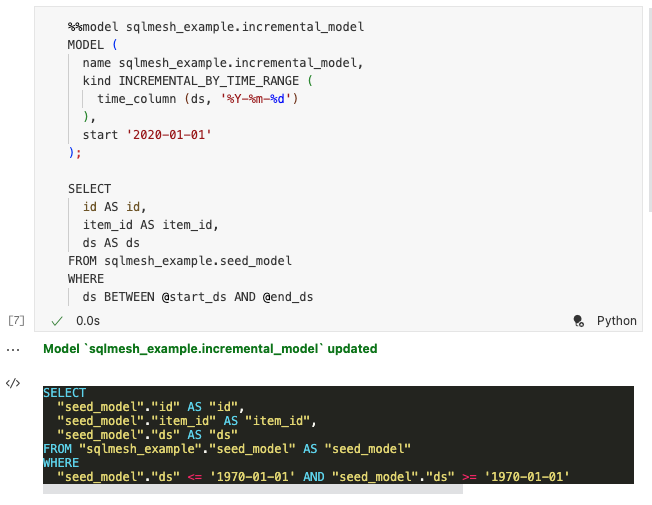
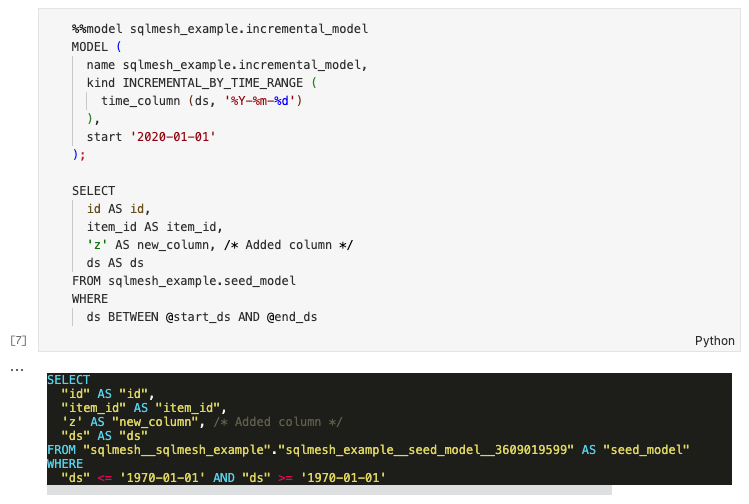
Fix notebook image

diff --git a/docs/quickstart/notebook.md b/docs/quickstart/notebook.md
@@ -81,7 +81,7 @@ We can modify the incremental SQL model using the `%model` *line* notebook magic
 
 ![%model line magic for sqlmesh_example.incremental_model](./notebook/nb-quickstart_model-line.png)
 
-After we execute the cell, the contents will be replaced by the `%%model` *cell* notebook magic (note the double `%%`) and the model contents, along with a rendered version of the model SQL query. SQLMesh has automatically added explicit column aliases (e.g., `id AS id`):
+After we execute the cell, the contents will be replaced by the `%%model` *cell* notebook magic (note the double `%%`) and the model contents, along with a rendered version of the model SQL query. SQLMesh has automatically added explicit column aliases to the query (e.g., `id AS id`):
 
 ![%%model cell magic for sqlmesh_example.incremental_model](./notebook/nb-quickstart_model-cell.png)
 
@@ -100,9 +100,11 @@ The second block "Summary of differences against `dev`" summarizes the differenc
 
 The third block shows the modifications we made to the rendered query.
 
-The next block shows that SQLMesh understood that the change was additive (added a column not used by `full_model`) and was automatically classified as a non-breaking change.
+The next block shows that we directly modified the incremental model. SQLMesh understood that the change was additive (added a column not used by `full_model`) and automatically classified it as a non-breaking change.
 
-The final block describes the models requiring backfill, including the full model since the date `dev` was created from `prod` and the incremental model from our start date `2020-01-01`. We can modify the backfill start and end dates for the incremental model with the date picker widget if desired. Click the green `Apply - Backfill Tables` button to apply the plan and execute the backfill:
+The final block describes the models requiring backfill, including the full model since the date `dev` was created from `prod` and the incremental model from our start date `2020-01-01`. We can modify the backfill start and end dates for the incremental model with the date picker widget, if desired. 
+
+Click the green `Apply - Backfill Tables` button to apply the plan and execute the backfill:
 
 ![Notebook output after model modification and applying the updated plan](./notebook/nb-quickstart_apply-plan-dev-modified.png)
 
